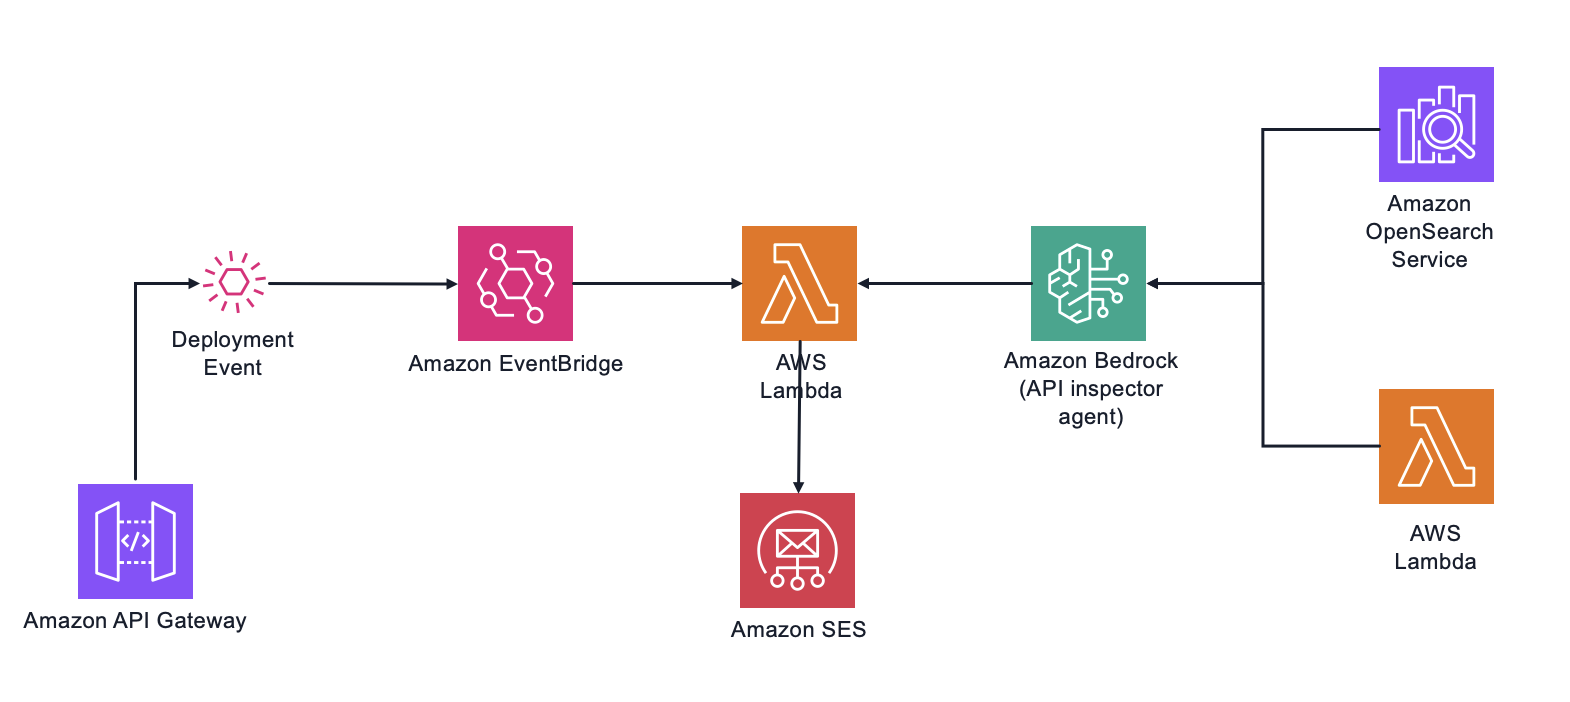
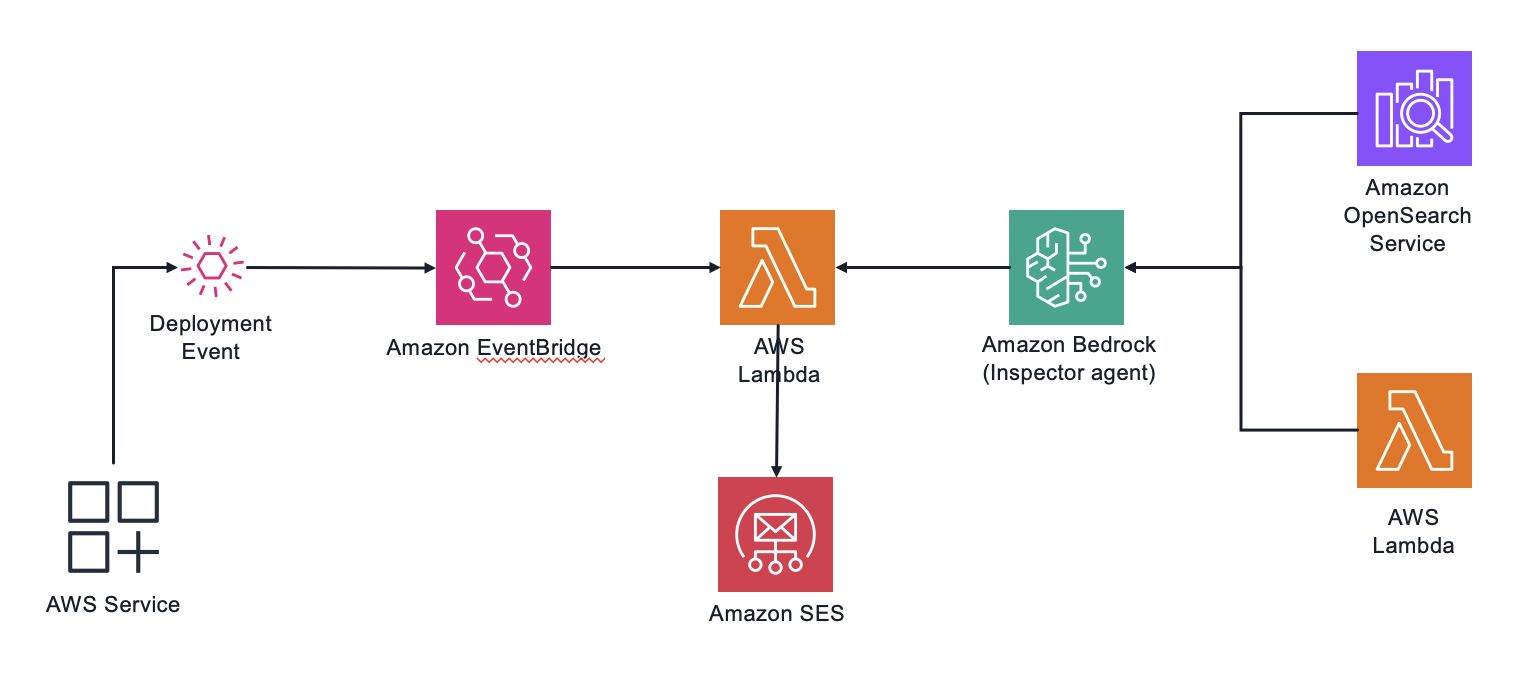
Updated readme/diagram

Changed region(s): [[0.0, 0.0609, 0.9688, 0.913]]

diff --git a/apigw-ai-agents/README.md b/apigw-ai-agents/README.md
@@ -1,9 +1,13 @@
-# API developer experience customization and centralized guidance using Amazon Bedrock
+# Developer experience customization and centralized guidance using Amazon Bedrock
 
-This solution provides an intelligent, AI-powered assistant that delivers real-time guidance for API development and governance on AWS. By integrating Amazon Bedrock agents with customizable knowledge bases, it bridges the gap between AWS best practices and your organization's specific governance requirements - creating a seamless, frictionless developer experience. The centralized knowledge base can be consumed by various services, including through a Model Context Protocol (MCP) server that enables developers to access this guidance directly within their existing development tools and IDEs.
+This sample solution provides an intelligent, AI-powered assistant that delivers real-time guidance for development and governance on AWS. 
+
+**Note: This sample focuses on API development, however, you can use any AWS service (or set of services).**
+
+By integrating Amazon Bedrock agents with customizable knowledge bases, this sample bridges the gap between AWS best practices and your organization's specific governance requirements - creating a seamless, frictionless developer experience. The centralized knowledge base can be consumed by various services, including through a Model Context Protocol (MCP) server that enables developers to access this guidance directly within their existing development tools and IDEs.
 
 Key Benefits
- - Developer Acceleration: Provides immediate, contextual advice during API development, reducing cycle times and preventing costly rework by ensuring designs align with both AWS and company standards from the outset.
+ - Developer Acceleration: Provides immediate, contextual advice during development, reducing cycle times and preventing costly rework by ensuring designs align with both AWS and company standards from the outset.
  - Governance as Code: Transforms static documentation and governance frameworks into interactive, real-time guidance embedded within development workflows, increasing compliance without adding friction.
  - Operational Excellence: Automatically reviews deployed API configurations, proactively identifies improvement opportunities, and delivers recommendations to stakeholders, enhancing security posture and performance.
  - Knowledge Centralization: Consolidates organizational wisdom, AWS documentation, and best practices into a unified advisory system that grows smarter with every interaction.
